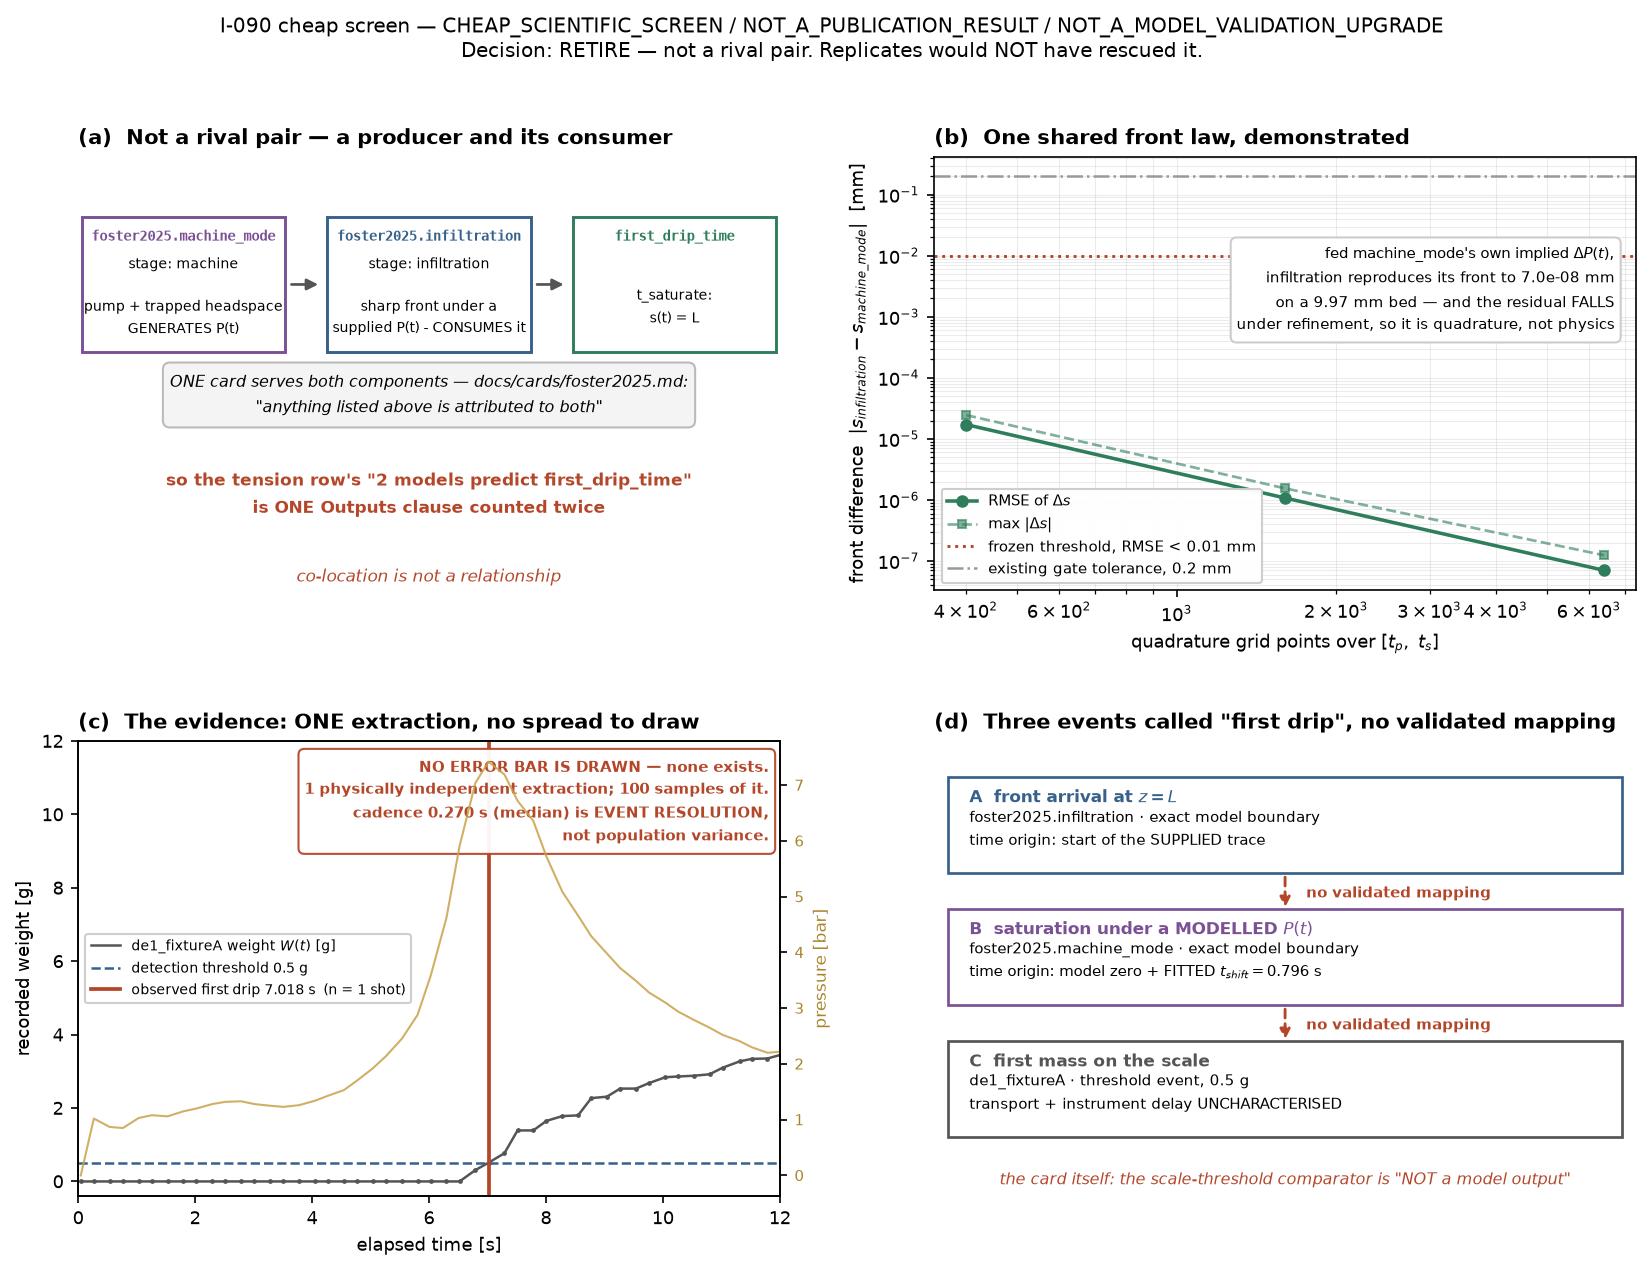
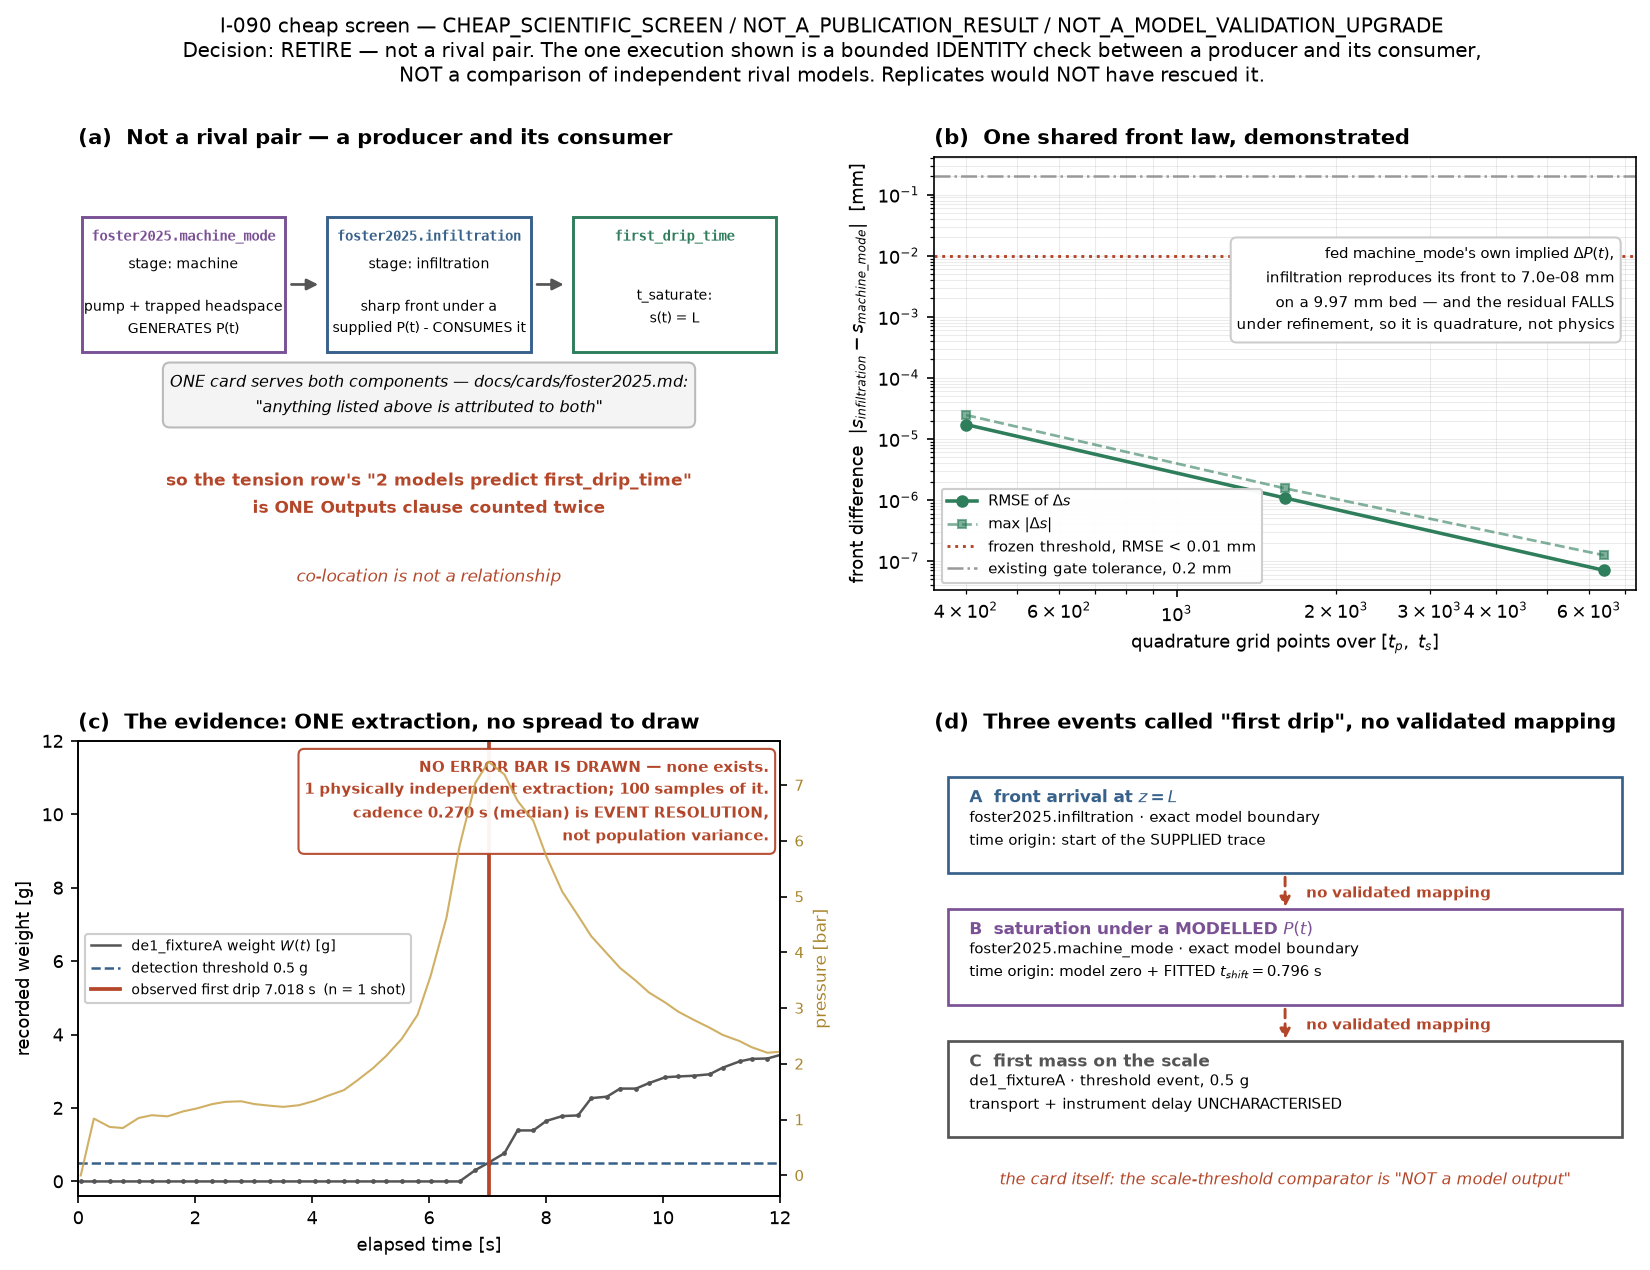
docs: state the I-090 execution class in the figure caption
The figure's decision line said "not a rival pair" but left the reader to infer
what the one execution shown in panel (b) actually was. A reader skimming a
log-log convergence plot could read it as a model comparison.

The caption now says it outright: the execution is a bounded IDENTITY check
between a producer and its consumer, NOT a comparison of independent rival
models. The three disposition tags already carry NOT_A_MODEL_VALIDATION_UPGRADE.

Figure content and every number are unchanged; only the suptitle text differs.

Changed region(s): [[0.1236, 0.0307, 0.8964, 0.0614]]

diff --git a/puckworks/analysis/screen_i090_first_drip.py b/puckworks/analysis/screen_i090_first_drip.py
@@ -900,7 +900,8 @@ def figure(result: dict | None = None, path: str | None = None) -> str:
 
     fig.suptitle("I-090 cheap screen — CHEAP_SCIENTIFIC_SCREEN / NOT_A_PUBLICATION_RESULT / "
                  "NOT_A_MODEL_VALIDATION_UPGRADE\n"
-                 "Decision: RETIRE — not a rival pair. Replicates would NOT have rescued it.",
+                 "Decision: RETIRE — not a rival pair. The one execution shown is a bounded "
+                 "IDENTITY check between a producer and its consumer,\nNOT a comparison of independent rival models. Replicates would NOT have rescued it.",
                  fontsize=9.8, y=0.985)
 
     out = path or str(REPO_ROOT / "docs/insights/screens/I-090/figures/primary.png")
